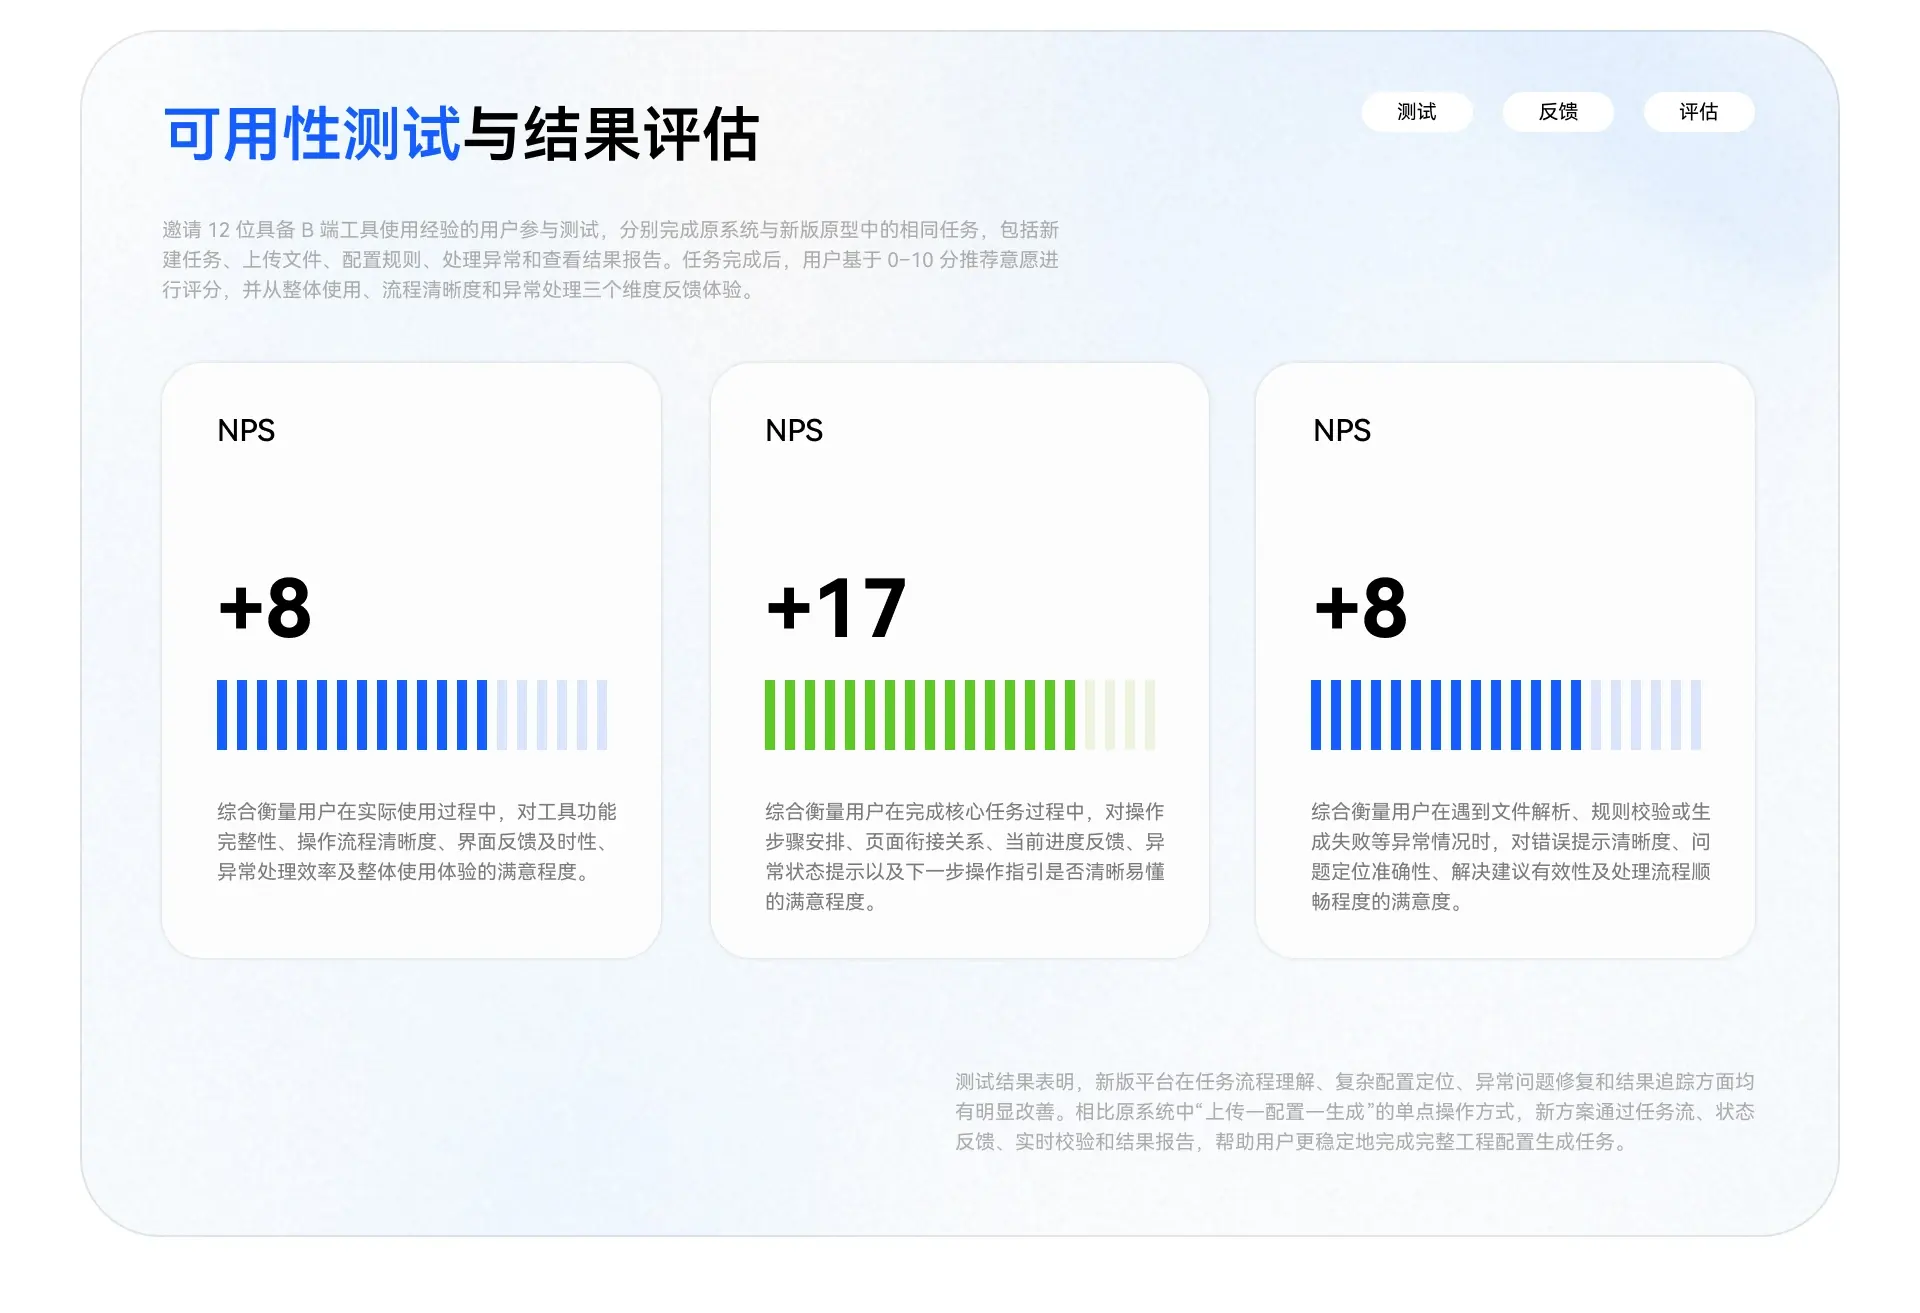
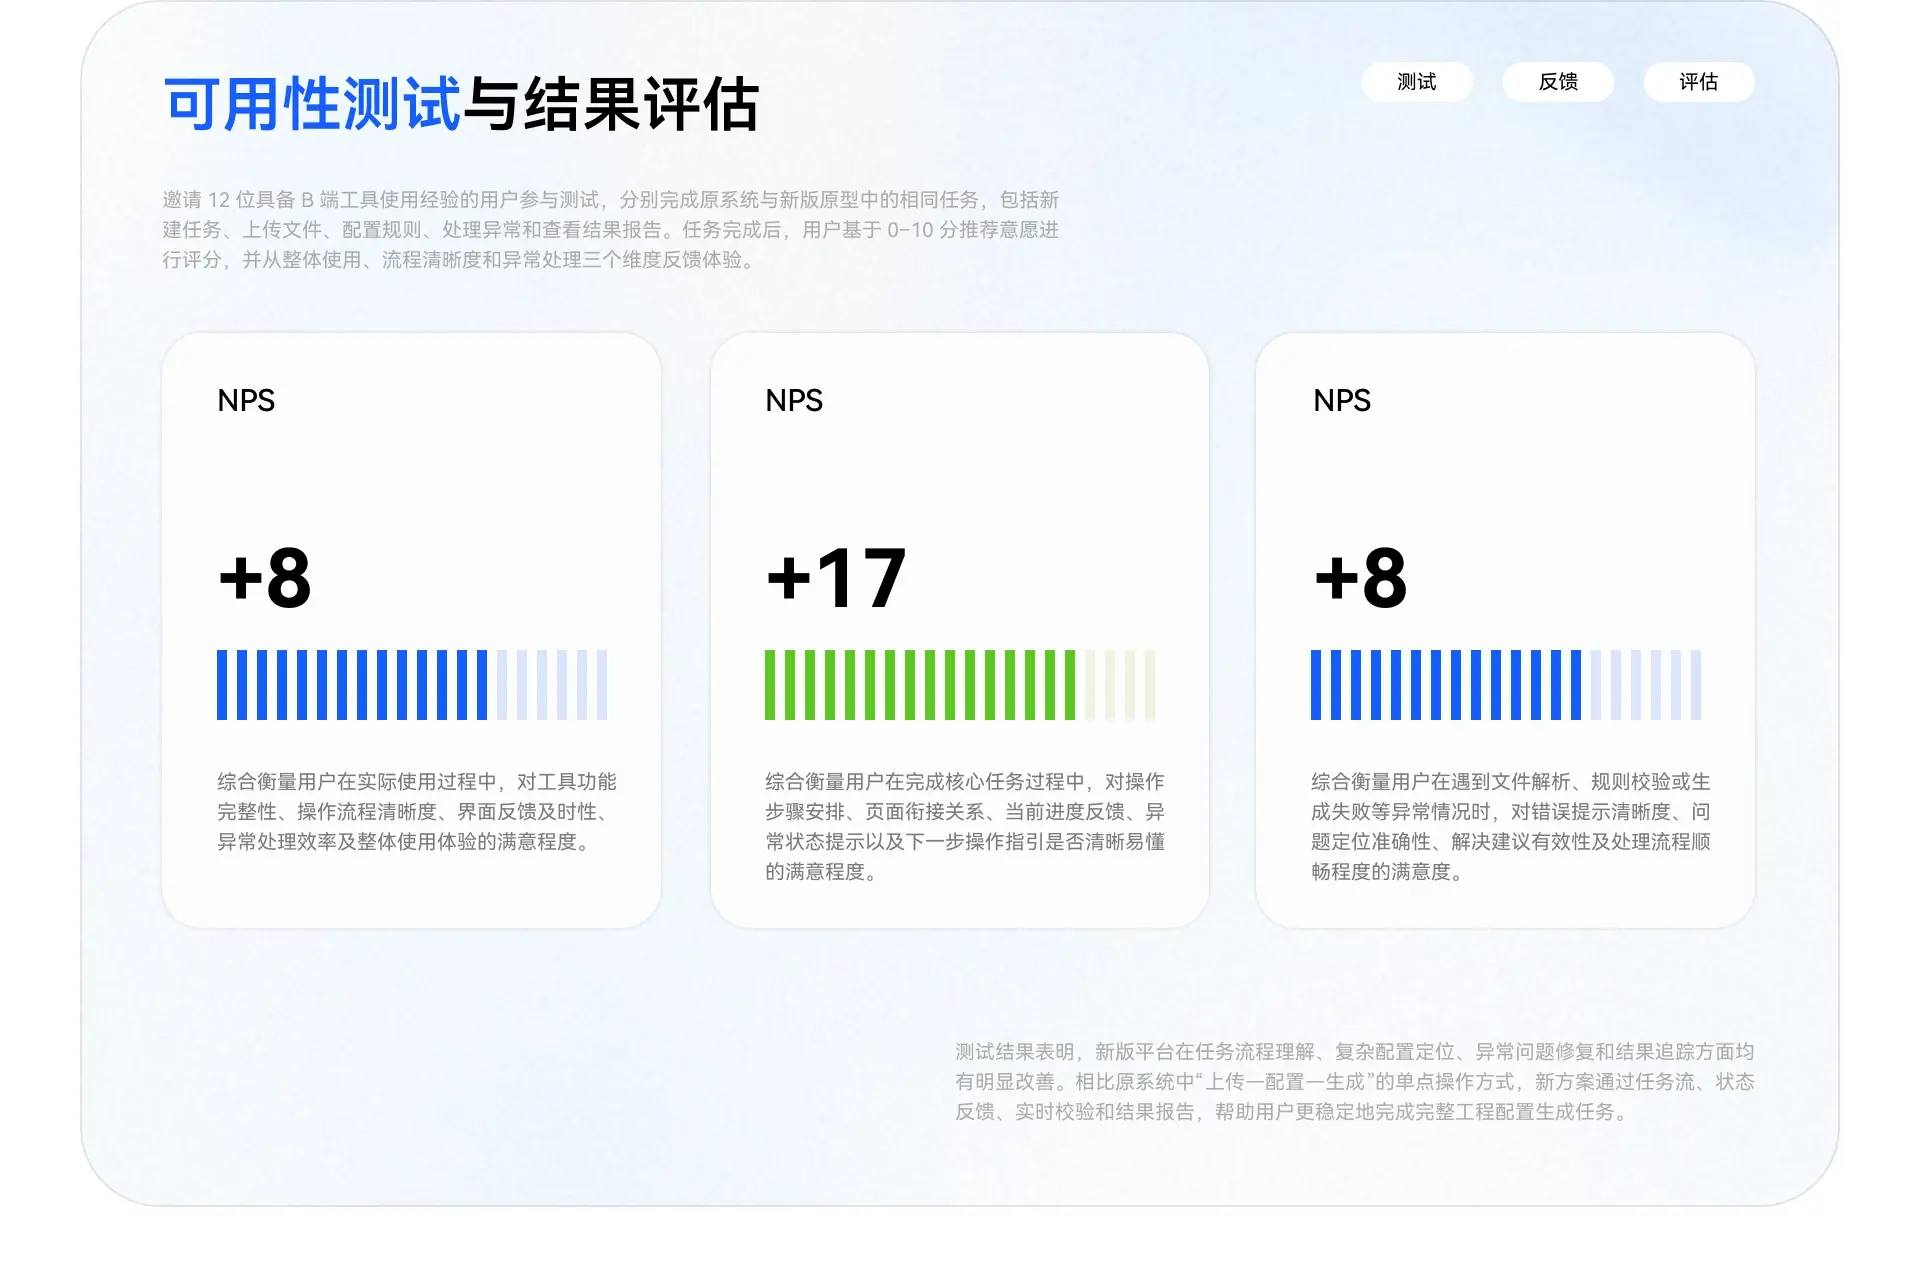
Refresh backend project case study

diff --git a/src/main.jsx b/src/main.jsx
@@ -1366,13 +1366,13 @@ const fileToolCaseImages = [
   { src: '/assets/file-tool/01-cover.webp', width: 1920, height: 1711 },
   { src: '/assets/file-tool/02-background.webp', width: 1920, height: 1180 },
   { src: '/assets/file-tool/03-audience-goals.webp', width: 1920, height: 1005 },
-  { src: '/assets/file-tool/04-interface-problems.webp', width: 1920, height: 1810 },
+  { src: '/assets/file-tool/04-interface-problems.webp', width: 1920, height: 1808 },
   { src: '/assets/file-tool/05-home-visual.webp', width: 1920, height: 1216 },
   { src: '/assets/file-tool/06-interaction-flow.webp', width: 1920, height: 2316 },
-  { src: '/assets/file-tool/07-file-configuration.webp', width: 1920, height: 1898 },
-  { src: '/assets/file-tool/08-generation-progress.webp', width: 1920, height: 1573 },
-  { src: '/assets/file-tool/09-project-showcase.webp', width: 1920, height: 1311 },
-  { src: '/assets/file-tool/10-usability-results.webp', width: 1920, height: 1313 },
+  { src: '/assets/file-tool/07-file-configuration.webp', width: 1920, height: 1897 },
+  { src: '/assets/file-tool/08-generation-progress.webp', width: 1920, height: 1572 },
+  { src: '/assets/file-tool/09-project-showcase.webp', width: 1920, height: 1309 },
+  { src: '/assets/file-tool/10-usability-results.webp', width: 1920, height: 1287 },
 ];
 
 const getMobileCaseImage = (src) => src.replace(/\/([^/]+)$/, '/mobile/$1');
